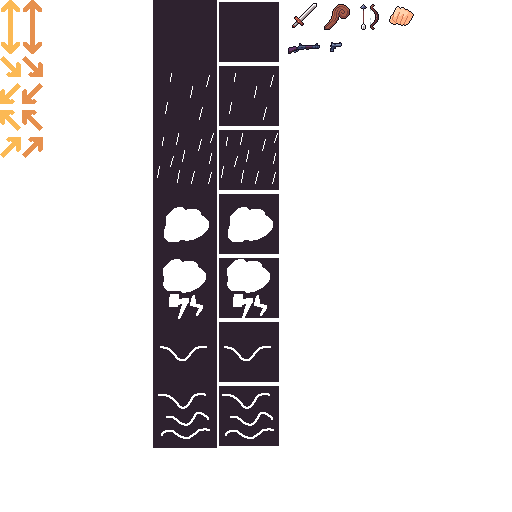
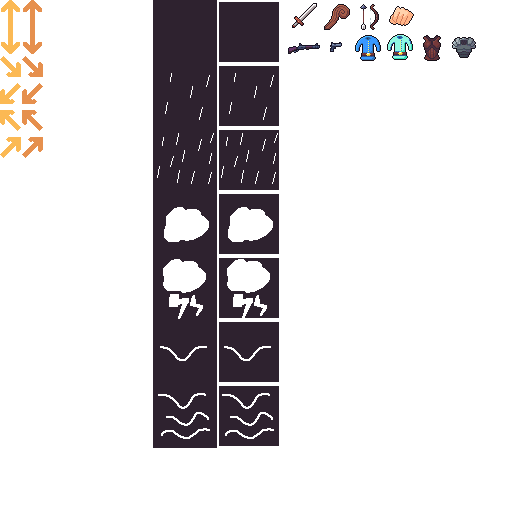
v0.5.804

Changed region(s): [[0.6875, 0.0625, 0.9375, 0.125]]

diff --git a/gamestream_flutter/lib/game_ui.dart b/gamestream_flutter/lib/game_ui.dart
@@ -1,6 +1,6 @@
 import 'package:flutter/material.dart';
 import 'package:gamestream_flutter/isometric/events/on_visibility_changed_message_box.dart';
-import 'package:gamestream_flutter/isometric/ui/buttons/build_button_equip_attack_type.dart';
+import 'package:gamestream_flutter/isometric/ui/buttons/build_atlas_image.dart';
 import 'package:gamestream_flutter/isometric/ui/constants/colors.dart';
 import 'package:gamestream_flutter/isometric/ui/stacks/build_stack_game_type_skirmish.dart';
 import 'package:gamestream_flutter/isometric/ui/stacks/build_stack_play_mode.dart';
@@ -260,10 +260,24 @@ class GameUI {
         child: buildIconAttackType(bodyType),
       );
 
+  static Widget buildPanelPlayerEquippedBodyType(int bodyType) =>
+      Container(
+        color: brownLight,
+        width: 150,
+        height: 150,
+        padding: const EdgeInsets.all(6),
+        child: buildIconBodyType(bodyType),
+      );
+
   static Widget buildColumnInventory() =>
     Column(
       children: [
-        watch(GamePlayer.weapon.type, GameUI.buildPanelPlayerEquippedAttackType),
+        Row(
+          children: [
+            watch(GamePlayer.weapon.type, GameUI.buildPanelPlayerEquippedAttackType),
+            watch(GamePlayer.bodyType, GameUI.buildPanelPlayerEquippedBodyType),
+          ],
+        ),
         watch(GamePlayer.weapons, buildColumnPlayerWeapons),
       ],
     );
@@ -275,6 +289,26 @@ class GameUI {
         height: 400,
         padding: const EdgeInsets.all(6),
         child: text("weapons"),
+      );
+
+  static Widget buildIconAttackType(int type) =>
+      buildAtlasImage(
+        image: GameImages.atlasIcons,
+        srcX: AtlasIconsX.getWeaponType(type),
+        srcY: AtlasIconsY.getWeaponType(type),
+        srcWidth: AtlasIconSize.getWeaponType(type),
+        srcHeight: AtlasIconSize.getWeaponType(type),
+        scale: 3.0,
+      );
+
+  static Widget buildIconBodyType(int type) =>
+      buildAtlasImage(
+        image: GameImages.atlasIcons,
+        srcX: AtlasIconsX.getBodyType(type),
+        srcY: AtlasIconsY.getBodyType(type),
+        srcWidth: AtlasIconSize.getBodyType(type),
+        srcHeight: AtlasIconSize.getBodyType(type),
+        scale: 3.0,
       );
 
 }

diff --git a/gamestream_flutter/lib/isometric/ui/build_panel_store.dart b/gamestream_flutter/lib/isometric/ui/build_panel_store.dart
@@ -1,6 +1,5 @@
 
 import 'package:flutter/material.dart';
-import 'package:gamestream_flutter/isometric/ui/buttons/build_button_equip_attack_type.dart';
 import 'package:gamestream_flutter/isometric/ui/widgets/build_container.dart';
 import 'package:gamestream_flutter/library.dart';
 
@@ -111,7 +110,7 @@ Widget buildColumnSelectPlayerPants(){
 }
 
 Widget buildButtonSelectPlayerHead(int headType) {
-   return watch(GameState.player.headType, (int playerHeadType){
+   return watch(GamePlayer.headType, (int playerHeadType){
       return container(
           child: text(HeadType.getName(headType)),
           action: () => GameNetwork.sendClientRequestSetHeadType(headType),
@@ -121,7 +120,7 @@ Widget buildButtonSelectPlayerHead(int headType) {
 }
 
 Widget _buildButtonPants(int pantsType) {
-  return watch(GameState.player.pantsType, (int playerPantsType){
+  return watch(GamePlayer.pantsType, (int playerPantsType){
     return container(
       child: text(LegType.getName(pantsType)),
       action: () => GameNetwork.sendClientRequestSetPantsType(pantsType),
@@ -147,7 +146,7 @@ Widget _buildButtonPurchaseWeapon(Weapon weapon) {
 }
 
 Widget _buildSelectArmourType(int type) {
-   return watch(GameState.player.armourType, (int equipped){
+   return watch(GamePlayer.bodyType, (int equipped){
      return container(
          child: text(BodyType.getName(type)),
          action: () => GameNetwork.sendClientRequestSetArmour(type),

diff --git a/gamestream_flutter/lib/game_atlas.dart b/gamestream_flutter/lib/game_atlas.dart
@@ -18,6 +18,13 @@ class AtlasIconsX {
     AttackType.Unarmed: 384,
     AttackType.Handgun: 320,
   } [weaponType] ?? 0.0;
+
+  static double getBodyType(int bodyType) => <int, double> {
+      BodyType.shirtBlue: 352,
+      BodyType.shirtCyan: 384,
+      BodyType.swat: 416,
+      BodyType.tunicPadded: 448,
+  } [bodyType] ?? 0.0;
 }
 
 class AtlasIconsY {
@@ -40,6 +47,10 @@ class AtlasIconsY {
     AttackType.Assault_Rifle: 32,
     AttackType.Handgun: 32,
   } [weaponType] ?? 0.0;
+
+  static double getBodyType(int bodyType) => <int, double> {
+    BodyType.shirtBlue: 32,
+  } [bodyType] ?? 0.0;
 }
 
 class AtlasIconSize {
@@ -51,6 +62,10 @@ class AtlasIconSize {
   static double getWeaponType(int weaponType) => <int, double> {
     AttackType.Staff: 32,
   } [weaponType] ?? Default;
+
+  static double getBodyType(int bodyType) => <int, double> {
+    BodyType.shirtBlue: 32,
+  } [bodyType] ?? Default;
 }
 
 class AtlasNodeX {

diff --git a/gamestream_flutter/lib/isometric/server_response_reader.dart b/gamestream_flutter/lib/isometric/server_response_reader.dart
@@ -284,13 +284,13 @@ class ServerResponseReader with ByteReader {
         GameState.player.weaponCooldown.value = readPercentage();
         break;
       case ApiPlayer.Armour_Type:
-       GameState.player.armourType.value = readByte();
+       GamePlayer.bodyType.value = readByte();
         break;
       case ApiPlayer.Head_Type:
-       GameState.player.headType.value = readByte();
+        GamePlayer.headType.value = readByte();
         break;
       case ApiPlayer.Pants_Type:
-       GameState.player.pantsType.value = readByte();
+        GamePlayer.pantsType.value = readByte();
         break;
       case ApiPlayer.Experience_Percentage:
        GameState.player.experience.value = readPercentage();

diff --git a/gamestream_flutter/lib/game_player.dart b/gamestream_flutter/lib/game_player.dart
@@ -4,6 +4,9 @@ import 'package:gamestream_flutter/library.dart';
 class GamePlayer {
   static final weapons = Watch(<Weapon>[]);
   static final weapon = AttackSlot();
+  static final bodyType = Watch(BodyType.tunicPadded);
+  static final headType = Watch(HeadType.None);
+  static final pantsType = Watch(LegType.white);
   static Vector3 position = Vector3();
   static Vector3 target = Vector3();
   static bool runningToTarget = false;

diff --git a/gamestream_flutter/lib/isometric/player.dart b/gamestream_flutter/lib/isometric/player.dart
@@ -29,9 +29,6 @@ class Player {
   final mouseTargetName = Watch<String?>(null);
   final mouseTargetAllie = Watch<bool>(false);
   final mouseTargetHealth = Watch(0.0);
-  final armourType = Watch(BodyType.tunicPadded);
-  final headType = Watch(HeadType.None);
-  final pantsType = Watch(LegType.white);
   final health = Watch(0);
   final experience = Watch(0.0);
   final level = Watch(1);

diff --git a/bleed-common/lib/version.dart b/bleed-common/lib/version.dart
@@ -1,1 +1,1 @@
-const version = 'v0.5.803';
+const version = 'v0.5.804';

diff --git a/bleed-server/bin/common/version.dart b/bleed-server/bin/common/version.dart
@@ -1,1 +1,1 @@
-const version = 'v0.5.803';
+const version = 'v0.5.804';
